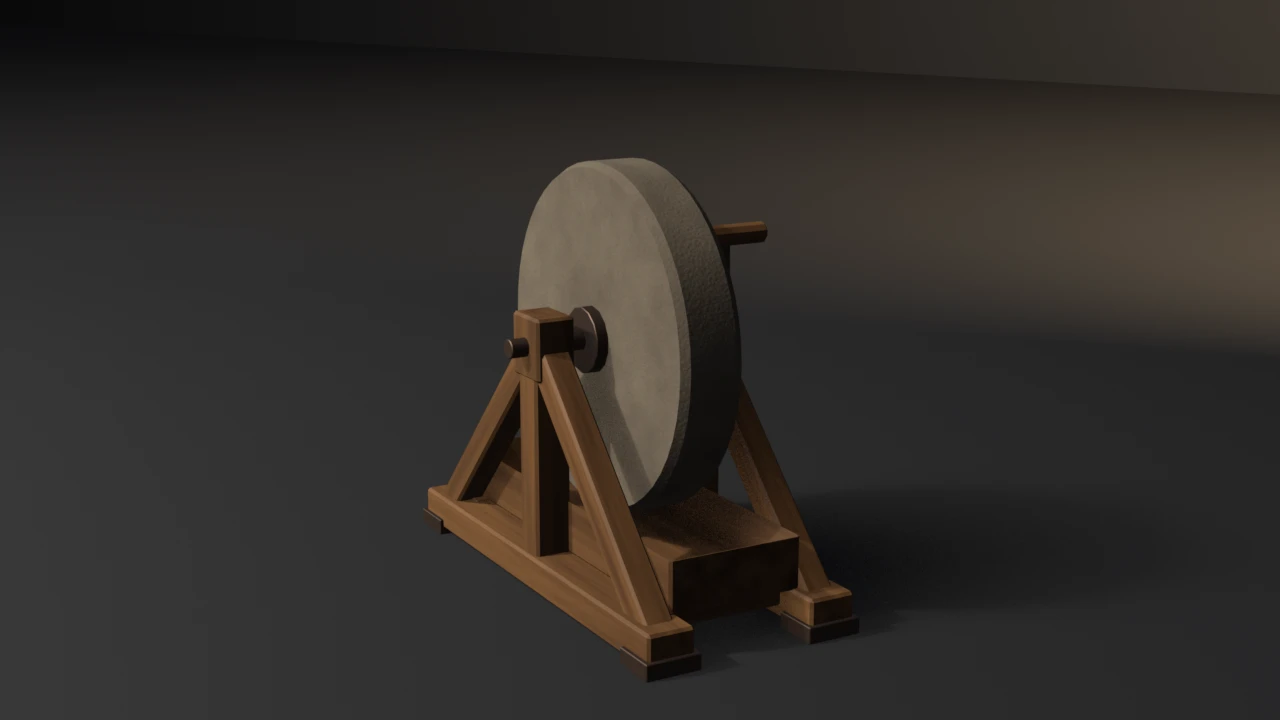
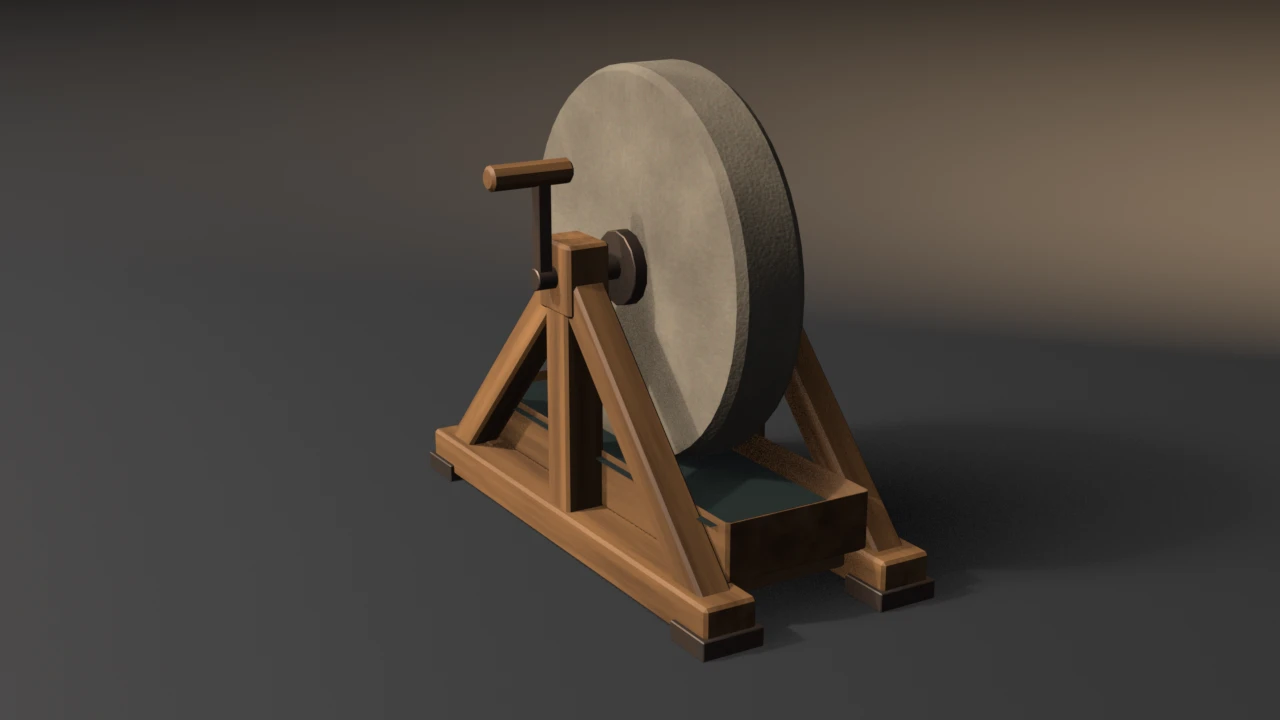
fix(showcase): turn the grindstone crank to camera and fill its trough
The hero showed the grindstone from the plain side, with the crank behind
the stone and the trough empty. The piece now turns 180 degrees about Z, so
the crank and handle face the camera, and the camera sits closer (fill y
0.83 from a far three-quarter view).

Render-only dressing: water stands in the trough 12 mm under the rim,
parented to the piece. The stone, 28 mm under the rim, runs 16 mm under
water, and the stone material darkens and glosses in a band that fades out
45 mm above the water line. Neither is part of the asset: no budget reads
them, the export does not carry them, and the asset sheet renders the
grindstone dry. The key and a warmer wedge were relit. Geometry and every
budget are unchanged (1668 tris).

Evidence (live runs, local .scratch binaries):
- Blender 5.2.1 LTS: default exits 0 (base 1668, LOD 0.5000 / 0.2194).
  --output passes framing: fill y 0.833, margins l 0.338 r 0.269 b 0.083
  t 0.083.
- Blender 4.5.11 LTS: default and --output exit 0, same counts, framing ok.
- tests/check_falsifier_targets.py --run on both versions: --skip-decimate
  9, --stray-vert 15, --flush-shoes 15, --lift-z 16, --short-legs 16,
  --float-crank 17, --float-legs 17, --no-dip 18, --narrow-trough 18,
  --low-stretchers 18, --sharp-handle 20, --low-bake 21, all as documented.
- Contact sheet: luma 0.268, stage 0.249, warmth +0.218, sat 0.145.
- Asset sheet (docs/gallery/asset-sheets/grindstone.webp): on a par with
[…]

diff --git a/showcase/grindstone/grindstone.py b/showcase/grindstone/grindstone.py
@@ -1635,6 +1635,86 @@ def wire_normal(mat, tex):
         nt.links.new(nrm.outputs["Normal"], bsdf.inputs["Normal"])
 
 
+WATER_BELOW_RIM = 0.012   # render-only water line, below the trough rim
+
+
+def add_trough_water(low):
+    """Render-only dressing: water standing in the trough, parented to the
+    piece so it turns with it. Not part of the asset (no budget, no export).
+
+    The line sits WATER_BELOW_RIM under the rim, so the stone, whose bottom
+    is DIP under the rim, runs DIP - WATER_BELOW_RIM (16 mm) under water:
+    a grindstone turns wet or it burns the edge.
+    """
+    inner_l = TROUGH_L - 2.0 * TROUGH_WALL - 0.002
+    inner_w = TROUGH_W - 2.0 * TROUGH_WALL - 0.002
+    z = TROUGH_Z0 + TROUGH_H - WATER_BELOW_RIM
+    me = bpy.data.meshes.new("TroughWater")
+    bm = bmesh.new()
+    try:
+        bmesh.ops.create_grid(bm, x_segments=24, y_segments=12, size=0.5)
+        for v in bm.verts:
+            v.co = Vector((v.co.x * inner_l, v.co.y * inner_w, z))
+        bm.to_mesh(me)
+    finally:
+        bm.free()
+    mat = bpy.data.materials.new("TroughWater")
+    mat.use_nodes = True
+    nt = mat.node_tree
+    b = nt.nodes["Principled BSDF"]
+    b.inputs["Base Color"].default_value = (0.020, 0.030, 0.028, 1.0)
+    b.inputs["Roughness"].default_value = 0.04
+    # a slow ripple so the key breaks into glints rather than one flat sheet
+    wave = nt.nodes.new("ShaderNodeTexNoise")
+    wave.inputs["Scale"].default_value = 28.0
+    wave.inputs["Detail"].default_value = 3.0
+    bump = nt.nodes.new("ShaderNodeBump")
+    bump.inputs["Strength"].default_value = 0.35
+    bump.inputs["Distance"].default_value = 0.002
+    nt.links.new(wave.outputs["Fac"], bump.inputs["Height"])
+    nt.links.new(bump.outputs["Normal"], b.inputs["Normal"])
+    me.materials.append(mat)
+    ob = bpy.data.objects.new("TroughWater", me)
+    bpy.context.scene.collection.objects.link(ob)
+    ob.parent = low
+    return ob
+
+
+def wet_stone_band(low):
+    """Render-only: the stone darkens and glosses where it runs through the
+    water, fading out WET_WICK above the water line (it wicks up)."""
+    stone = next((m for m in low.data.materials if m and m.name.startswith("GrindstoneStone")),
+                 None)
+    if stone is None:
+        return
+    wet_wick = 0.045
+    z_water = TROUGH_Z0 + TROUGH_H - WATER_BELOW_RIM
+    nt = stone.node_tree
+    bsdf = nt.nodes["Principled BSDF"]
+    coord = nt.nodes.new("ShaderNodeTexCoord")
+    sep = nt.nodes.new("ShaderNodeSeparateXYZ")
+    nt.links.new(coord.outputs["Object"], sep.inputs["Vector"])
+    wet = nt.nodes.new("ShaderNodeMapRange")
+    wet.inputs["From Min"].default_value = z_water + wet_wick
+    wet.inputs["From Max"].default_value = z_water
+    nt.links.new(sep.outputs["Z"], wet.inputs["Value"])
+    col_link = bsdf.inputs["Base Color"].links[0]
+    darken = nt.nodes.new("ShaderNodeMix")
+    darken.data_type = "RGBA"
+    darken.blend_type = "MULTIPLY"
+    nt.links.new(wet.outputs["Result"], _sock(darken.inputs, "Factor_Float"))
+    nt.links.new(col_link.from_socket, _sock(darken.inputs, "A_Color"))
+    _sock(darken.inputs, "B_Color").default_value = (0.52, 0.50, 0.48, 1.0)
+    nt.links.new(_sock(darken.outputs, "Result_Color"), bsdf.inputs["Base Color"])
+    r_link = bsdf.inputs["Roughness"].links[0]
+    gloss = nt.nodes.new("ShaderNodeMix")
+    gloss.data_type = "FLOAT"
+    nt.links.new(wet.outputs["Result"], _sock(gloss.inputs, "Factor_Float"))
+    nt.links.new(r_link.from_socket, _sock(gloss.inputs, "A_Float"))
+    _sock(gloss.inputs, "B_Float").default_value = 0.30
+    nt.links.new(_sock(gloss.outputs, "Result_Float"), bsdf.inputs["Roughness"])
+
+
 def render_still(low, hero_mat, tex, path, engine):
     scene = bpy.context.scene
     wire_normal(hero_mat, tex)
@@ -1643,8 +1723,11 @@ def render_still(low, hero_mat, tex, path, engine):
             ob.hide_render = True
             ob.hide_viewport = True
 
-    low.rotation_euler.z = math.radians(-22.0)
+    # crank toward the camera: it is the part that says "turned by hand"
+    low.rotation_euler.z = math.radians(158.0)
     low.rotation_euler.x = math.radians(0.0)
+    water = add_trough_water(low)
+    wet_stone_band(low)
 
     floor_me = bpy.data.meshes.new("Floor")
     bm = bmesh.new()
@@ -1683,17 +1766,17 @@ def render_still(low, hero_mat, tex, path, engine):
         ob.rotation_euler = tuple(math.radians(a) for a in rot)
         scene.collection.objects.link(ob)
 
-    light("Key", (-3.6, -5.0, 5.4), 660.0, 4.0, (1.0, 0.94, 0.86), (50, 0, -36))
-    light("Fill", (5.0, -3.4, 2.4), 46.0, 8.0, (0.72, 0.82, 1.0), (62, 0, 50))
-    light("Wedge", (2.2, 4.0, 3.8), 600.0, 5.5, (1.0, 0.70, 0.40), (-70, 0, 198))
+    light("Key", (-3.2, -4.4, 5.0), 940.0, 3.6, (1.0, 0.93, 0.84), (50, 0, -36))
+    light("Fill", (5.0, -3.4, 2.4), 60.0, 8.0, (0.72, 0.82, 1.0), (62, 0, 50))
+    light("Wedge", (1.6, 3.2, 3.2), 820.0, 5.0, (1.0, 0.66, 0.36), (-66, 0, 200))
 
     cam_data = bpy.data.cameras.new("Cam")
     cam_data.lens = 50.0
     cam = bpy.data.objects.new("Cam", cam_data)
-    cam.location = (1.55, -1.95, 0.92)
+    cam.location = (1.30, -1.73, 0.90)
     scene.collection.objects.link(cam)
     aim = bpy.data.objects.new("Aim", None)
-    aim.location = (0.0, 0.0, 0.32)
+    aim.location = (0.0, 0.0, 0.235)
     scene.collection.objects.link(aim)
     con = cam.constraints.new("TRACK_TO")
     con.target = aim
@@ -1721,7 +1804,7 @@ def render_still(low, hero_mat, tex, path, engine):
     scene.view_settings.view_transform = "Standard"
 
     fcode = gallery_framing.check_framing(
-        scene, cam, hero=[low], elements=[low], stage=[floor, wall],
+        scene, cam, hero=[low], elements=[low, water], stage=[floor, wall],
     )
     if fcode:
         return fcode

diff --git a/README.md b/README.md
@@ -125,7 +125,7 @@ Budget-conformance props. Not examples. Conventions: [`showcase/README.md`](show
   <a href="showcase/anvil/"><img src="showcase/anvil/preview.webp" width="24%" alt="Anvil: a forged-steel London-pattern anvil with a hammer-polished face on a hooped timber stump, a hammer at its foot" /></a>
   <a href="showcase/water-trough/"><img src="showcase/water-trough/preview.webp" width="24%" alt="Water trough: a watertight wooden trough with plank ends, rippled water, rust-streaked iron straps and trestle legs on a dark studio floor" /></a>
   <a href="showcase/hitching-post/"><img src="showcase/hitching-post/preview.webp" width="24%" alt="Hitching post: a square timber post with a pyramidal cap, a cross-arm on two knee braces with iron end caps, iron bands wrapped around it, two hitching rings and a nailed horseshoe on a dark studio floor" /></a>
-  <a href="showcase/grindstone/"><img src="showcase/grindstone/preview.webp" width="24%" alt="Grindstone: a stone wheel on a timber A-frame with an iron axle, hubs, crank, and tray on a dark studio floor" /></a>
+  <a href="showcase/grindstone/"><img src="showcase/grindstone/preview.webp" width="24%" alt="Grindstone: a sandstone wheel dipping into a water-filled trough on a timber A-frame, with iron axle, hubs and a crank turned toward the viewer, on a dark studio floor" /></a>
   <a href="showcase/hand-pump/"><img src="showcase/hand-pump/preview.webp" width="24%" alt="Hand pump: a green-enamelled cast-iron village pump on a stepped wooden plinth with a spout and handle on a dark studio floor" /></a>
   <a href="showcase/signpost/"><img src="showcase/signpost/preview.webp" width="24%" alt="Signpost: a timber crossroads post with three painted fingerboards lettered MILLBROOK 2, OAKHAM 5 and FORD 1, iron straps, and a pyramidal cap on a dark studio floor" /></a>
   <a href="showcase/chopping-block/"><img src="showcase/chopping-block/preview.webp" width="24%" alt="Chopping block: a bark-sided log round with growth rings and drying checks on its sawn top, a riveted iron hoop, and a felling axe buried in the top, on a dark studio floor" /></a>

diff --git a/showcase/grindstone/README.md b/showcase/grindstone/README.md
@@ -15,6 +15,14 @@ is chamfered. The stone is 48 smooth segments with hard chamfer rings, in
 a mottled sandstone material. Stated size is a 0.50 m × 0.095 m stone in a
 0.72 × 0.42 × 0.61 m frame.
 
+The hero turns the crank toward the camera, since the crank is the part that
+says the wheel is turned by hand, and fills the trough. The water is
+render-only dressing parented to the piece, set 12 mm under the rim, so the
+stone (28 mm under the rim) runs 16 mm under water; the stone darkens and
+glosses in a band that fades out 45 mm above the water line. Neither the
+water nor the wet band is part of the asset: no budget reads them, the export
+does not carry them, and the asset sheet renders the grindstone dry.
+
 It asserts **budget conformance** of the generated result. It does not
 witness an API contract. "It rendered without error" is not a check.
 
